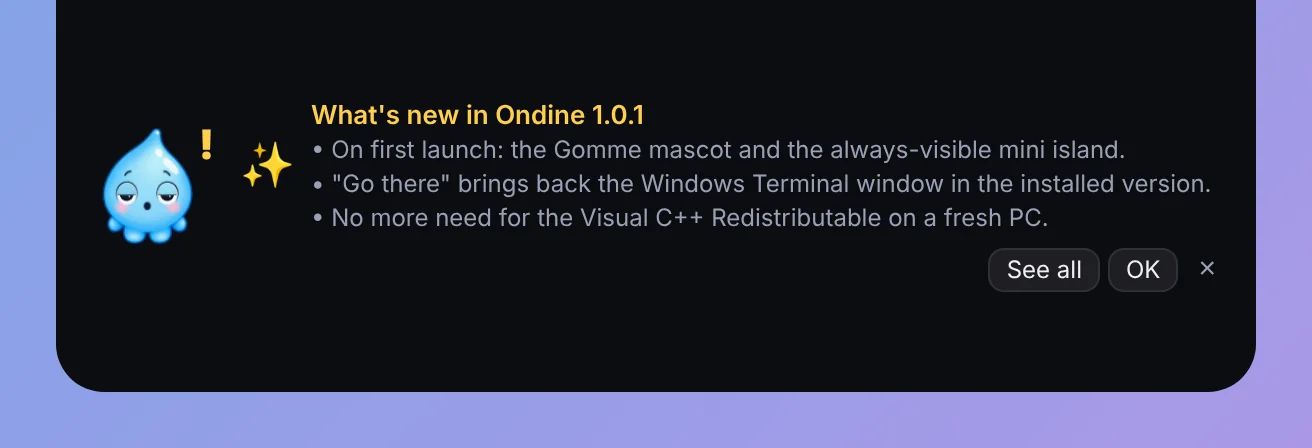
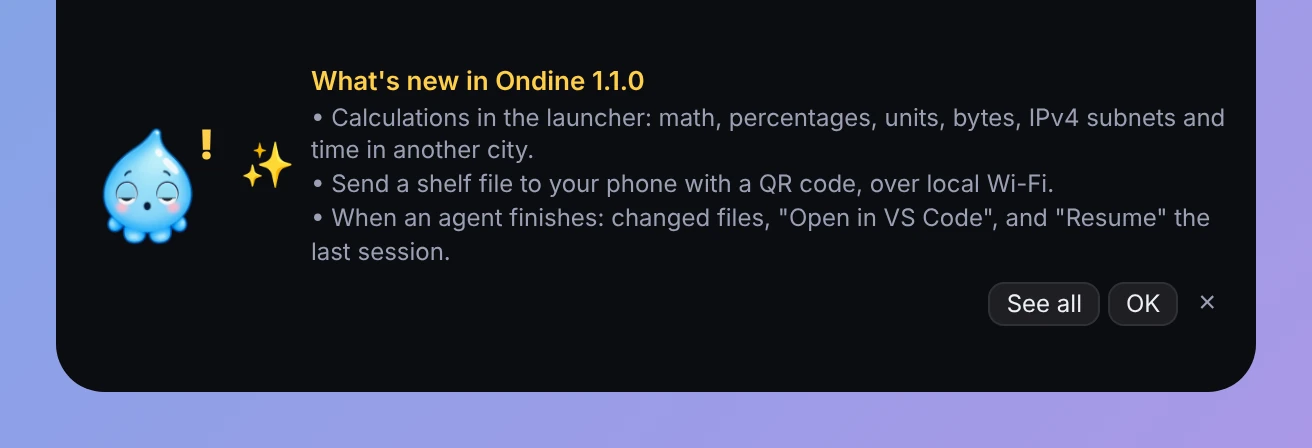
Correctifs après la 1.1.0 : textes anglais, recherche coupée, Quoi de neuf
- i18n.ts : le parcours d'un morceau de page saute vraiment ce qui vient de
  l'utilisateur (data-no-i18n, textarea, contenteditable) ; le placeholder
  d'une zone de texte est traduit.
- Agenda, règles, aide des agents : les lignes faites de plusieurs morceaux
  sont rendues morceau par morceau, chacun traduit à part ; les jours
  suivent la langue de l'île.
- i18n-en.json : batterie, mémoire, île réduite de l'Agenda, état des
  permissions, actions des règles ; remplacements corrigés ($1 répété).
  Un test refuse désormais un $n répété.
- Presse-papiers : « Chercher… » et des onglets plus serrés, la recherche
  n'est plus coupée. Redémarrage en attente : le texte passe à la ligne.
- Quoi de neuf : espaces insécables du français (guillemets, deux-points).
  Captures du README refaites sur la 1.1.0.

Claude-Session: https://claude.ai/code/session_01PJkXqXzqgYwzQRsmaiu2JG

diff --git a/src/modules/agenda/index.ts b/src/modules/agenda/index.ts
@@ -18,6 +18,7 @@
 
 import manifest from "./manifest.json";
 import { Bridge } from "../../core/bridge";
+import { currentLang } from "../../core/i18n";
 import { errorText } from "../../core/log";
 import type { IslandModule, ModuleApi, ModuleManifest } from "../../core/module-types";
 import { el } from "../../island/dom";
@@ -69,13 +70,21 @@ const LINK_LABELS: Record<LinkKind, string> = {
   web: "Ouvrir le lien du rendez-vous",
 };
 
-/** « 2 calendriers · 245 événements lus (le plus récent : 12/03/2026) · 0 à venir » */
-function sourcesLine(calendars: number, read: number | undefined, latest: string | null | undefined, upcoming: number): string {
+/**
+ * « 2 calendriers · 245 événements lus (le plus récent : 12/03/2026) · 0 à venir »,
+ * en morceaux : chacun se traduit à part (voir dotted).
+ */
+function sourcesLine(calendars: number, read: number | undefined, latest: string | null | undefined, upcoming: number): string[] {
   const parts: string[] = [];
   if (calendars) parts.push(calendars > 1 ? `${calendars} calendriers` : "1 calendrier");
   if (read !== undefined) parts.push(`${read} événement${read > 1 ? "s" : ""} lu${read > 1 ? "s" : ""}${latest ? ` (le plus récent : ${latest})` : ""}`);
   parts.push(`${upcoming} à venir`);
-  return parts.join(" · ");
+  return parts;
+}
+
+/** Des morceaux séparés par « · », chacun dans son propre texte (traduit à part, i18n.ts). */
+function dotted(parts: (string | null | undefined)[]): string[] {
+  return parts.filter((p): p is string => !!p).flatMap((p, i) => (i ? [" · ", p] : [p]));
 }
 
 let listing: Listing = { events: [], errors: [], calendars: [] };
@@ -114,12 +123,12 @@ function dayStart(ms: number): number {
   return d.getTime();
 }
 
-/** « Aujourd'hui », « Demain », sinon « mercredi 8 octobre ». */
+/** « Aujourd'hui », « Demain », sinon « mercredi 8 octobre » (« Thursday, October 8 » en anglais). */
 function dayLabel(ms: number): string {
   const days = Math.round((dayStart(ms) - dayStart(Date.now())) / 86_400_000);
   if (days <= 0) return "Aujourd'hui";
   if (days === 1) return "Demain";
-  const text = new Date(ms).toLocaleDateString("fr-FR", { weekday: "long", day: "numeric", month: "long" });
+  const text = new Date(ms).toLocaleDateString(currentLang() === "en" ? "en-US" : "fr-FR", { weekday: "long", day: "numeric", month: "long" });
   return text.charAt(0).toUpperCase() + text.slice(1);
 }
 
@@ -145,7 +154,9 @@ function relative(m: Meeting, now = Date.now()): string {
     const rest = min % 60;
     return rest ? `dans ${h} h ${String(rest).padStart(2, "0")}` : `dans ${h} h`;
   }
-  return m.allDay ? dayLabel(m.start).toLowerCase() : `${dayLabel(m.start).toLowerCase()} à ${hhmm(m.start)}`;
+  // En anglais, les jours gardent leur majuscule (« Thursday, October 8 at 9:30 »).
+  const day = currentLang() === "en" ? dayLabel(m.start) : dayLabel(m.start).toLowerCase();
+  return m.allDay ? day : `${day} à ${hhmm(m.start)}`;
 }
 
 /** Ouvre le lien d'un rendez-vous (le Rust le retrouve et vérifie qu'il est http(s)). */
@@ -388,7 +399,7 @@ export const agenda: IslandModule = {
                 { class: `agenda-next${ongoing(next) ? " live" : ""}` },
                 el("span", { class: "agenda-when" }, relative(next)),
                 el("b", { class: "agenda-title" }, dot(next), next.title),
-                el("span", { class: "muted" }, [dayLabel(next.start), timeRange(next), next.location].filter(Boolean).join(" · ")),
+                el("span", { class: "muted" }, ...dotted([dayLabel(next.start), timeRange(next), next.location])),
                 next.link ? el("span", { class: "agenda-join" }, next.link === "web" ? "🔗 " : "🎥 ", LINK_LABELS[next.link]) : null,
               ),
               api,
@@ -429,7 +440,7 @@ export const agenda: IslandModule = {
           el(
             "div",
             { class: "btn-row agenda-foot" },
-            el("span", { class: "muted" }, sourcesLine(calendars.length, read, latest, events.length)),
+            el("span", { class: "muted" }, ...dotted(sourcesLine(calendars.length, read, latest, events.length))),
             el("button", { class: "btn small", title: "Relire tous les calendriers", onclick: api.handler(() => refresh(api, "reload", { force: true })) }, "🔄 Relire"),
           ),
         );

diff --git a/src/core/i18n.ts b/src/core/i18n.ts
@@ -156,10 +156,26 @@ function applyAttr(elem: Element, name: string) {
   if (shown !== v) elem.setAttribute(name, shown);
 }
 
+/** Ce qui vient de l'utilisateur (champs de saisie, notes, presse-papiers) n'est pas touché. */
+const USER_TEXT = "[data-no-i18n], textarea, [contenteditable='true']";
+
 function skipped(elem: Element): boolean {
-  // Ce qui vient de l'utilisateur (champs de saisie, notes, presse-papiers) n'est pas touché.
-  return elem.closest("[data-no-i18n], textarea, [contenteditable='true']") !== null;
+  return elem.closest(USER_TEXT) !== null;
 }
+
+/**
+ * Le placeholder et la bulle d'une zone de texte sont de l'appli, même si son
+ * contenu est à l'utilisateur.
+ */
+function applyFieldAttrs(elem: Element) {
+  const parent = elem.parentElement;
+  if (elem.tagName === "TEXTAREA" && (!parent || !skipped(parent))) for (const a of ATTRS) applyAttr(elem, a);
+}
+
+/** Le parcours d'un morceau de page saute ce qui vient de l'utilisateur (et tout ce qu'il contient). */
+const userFilter: NodeFilter = {
+  acceptNode: (n) => (n.nodeType === Node.ELEMENT_NODE && (n as Element).matches(USER_TEXT) ? NodeFilter.FILTER_REJECT : NodeFilter.FILTER_ACCEPT),
+};
 
 function translateNode(node: Node) {
   if (node.nodeType === Node.TEXT_NODE) {
@@ -169,15 +185,16 @@ function translateNode(node: Node) {
   }
   if (node.nodeType !== Node.ELEMENT_NODE) return;
   const elem = node as Element;
-  if (skipped(elem)) return;
+  if (skipped(elem)) return applyFieldAttrs(elem);
   for (const a of ATTRS) applyAttr(elem, a);
-  const walker = document.createTreeWalker(elem, NodeFilter.SHOW_TEXT | NodeFilter.SHOW_ELEMENT);
+  const walker = document.createTreeWalker(elem, NodeFilter.SHOW_TEXT | NodeFilter.SHOW_ELEMENT, userFilter);
   let n = walker.nextNode();
   while (n) {
     if (n.nodeType === Node.TEXT_NODE) applyText(n);
     else for (const a of ATTRS) applyAttr(n as Element, a);
     n = walker.nextNode();
   }
+  for (const field of elem.querySelectorAll("textarea")) applyFieldAttrs(field);
 }
 
 let originalTitle = "";
@@ -234,6 +251,7 @@ export async function startI18n(): Promise<void> {
       else if (r.type === "attributes") {
         const e = r.target as Element;
         if (!skipped(e)) applyAttr(e, r.attributeName!);
+        else applyFieldAttrs(e);
       } else r.addedNodes.forEach(translateNode);
     }
   }).observe(document.body, { subtree: true, childList: true, characterData: true, attributes: true, attributeFilter: ATTRS });

diff --git a/tests/front/changelog.test.ts b/tests/front/changelog.test.ts
@@ -5,7 +5,7 @@
 import { describe, test } from "node:test";
 import assert from "node:assert/strict";
 import { readFileSync } from "node:fs";
-import { changelogSection, parseChangelog, shorten, splitBilingual, whatsNewAction, whatsNewLines } from "../../src/core/changelog";
+import { changelogSection, frenchSpaces, parseChangelog, shorten, splitBilingual, whatsNewAction, whatsNewLines } from "../../src/core/changelog";
 
 const SAMPLE = [
   "# Changements · Changelog",
@@ -66,7 +66,7 @@ describe("lecture du CHANGELOG", () => {
   test("chaque puce : la moitié de la langue choisie", () => {
     assert.deepEqual(whatsNewLines(SAMPLE, "1.2.0", "fr"), [
       "Première puce.",
-      "Une puce sur deux lignes, avec « des guillemets » et la suite en retrait.",
+      "Une puce sur deux lignes, avec «\u00a0des guillemets\u00a0» et la suite en retrait.",
       "Bilan de la semaine (Pomodoros · tâches).",
     ]);
     assert.deepEqual(whatsNewLines(SAMPLE, "1.2.0", "en"), ["First bullet.", "A bullet over two lines, continued.", "Weekly summary."]);
@@ -92,6 +92,11 @@ describe("lecture du CHANGELOG", () => {
     const s = shorten("un deux trois quatre cinq six sept", 20);
     assert.ok(s.length <= 20, s);
     assert.equal(s, "un deux trois…");
+  });
+
+  test("en français, les guillemets et les deux-points ne se séparent pas de leur mot", () => {
+    assert.equal(frenchSpaces("« Reprendre » : la session ; vraiment ?"), "«\u00a0Reprendre\u00a0»\u00a0: la session\u00a0; vraiment\u00a0?");
+    assert.equal(frenchSpaces("Déjà insécable :\u00a0rien à changer"), "Déjà insécable\u00a0:\u00a0rien à changer");
   });
 
   test("le vrai CHANGELOG.md : chaque version a des puces, en deux langues", () => {

diff --git a/src/modules/agents/index.ts b/src/modules/agents/index.ts
@@ -590,9 +590,11 @@ export const agents: IslandModule = {
           el("li", {}, "Ouvrez ", el("code", {}, fileOf(tool)), ". ", TOOLS[tool].steps),
           el("li", {}, "Chaque hook lance : ", exe),
         );
-        mcpSteps.textContent =
-          "En plus (facultatif) : branchez l'île comme serveur MCP. L'agent pourra alors vous envoyer un message, sa progression, lancer le minuteur, ou vous poser une question à choix, à laquelle vous répondez d'un clic. " +
-          MCP_STEPS[tool];
+        // Deux textes : chacun a sa traduction (i18n.ts traduit texte par texte).
+        mcpSteps.replaceChildren(
+          "En plus (facultatif) : branchez l'île comme serveur MCP. L'agent pourra alors vous envoyer un message, sa progression, lancer le minuteur, ou vous poser une question à choix, à laquelle vous répondez d'un clic. ",
+          MCP_STEPS[tool],
+        );
         const permOn = api.settings().permissions === true;
         permText.textContent =
           tool === "gemini"

diff --git a/src/modules/rules/index.ts b/src/modules/rules/index.ts
@@ -14,7 +14,7 @@ import { errorText } from "../../core/log";
 import type { IslandModule, ModuleApi, ModuleManifest } from "../../core/module-types";
 import { el } from "../../island/dom";
 import { reducedMotion } from "../../island/tab-pill";
-import { summary, type Listing } from "./shared";
+import { summaryParts, type Listing } from "./shared";
 
 let listing: Listing = { rules: [], paused: false, history: [], errors: {}, topics: [] };
 const redraws = new Set<() => void>();
@@ -109,7 +109,7 @@ export const rules: IslandModule = {
                 "button",
                 { class: "rule-main", title: "Modifier", onclick: api.handler(() => edit(api, r.id)) },
                 el("b", {}, r.name),
-                el("span", { class: "muted" }, summary(r, topics)),
+                el("span", { class: "muted" }, ...summaryParts(r, topics)),
                 error ? el("span", { class: "rule-error" }, `⚠ ${error}`) : null,
               ),
             ),

diff --git a/src/modules/rules/shared.ts b/src/modules/rules/shared.ts
@@ -132,9 +132,13 @@ export function actionText(a: Action): string {
   }
 }
 
-/** « Quand un fichier arrive dans Downloads (.pdf) → déplacer dans PDF, notifier… » */
-export function summary(r: Rule, topics: Listing["topics"] = []): string {
-  return `${triggerText(r.trigger, topics)}${conditionsText(r.conditions, r.trigger)} → ${r.actions.map(actionText).join(", ")}`;
+/**
+ * Le résumé d'une règle, « Quand un fichier arrive dans Downloads (.pdf) →
+ * déplacer dans PDF, notifier… », en morceaux : chacun se traduit à part (i18n.ts).
+ */
+export function summaryParts(r: Rule, topics: Listing["topics"] = []): string[] {
+  const actions = r.actions.map(actionText).flatMap((a, i) => (i ? [", ", a] : [a]));
+  return [triggerText(r.trigger, topics), conditionsText(r.conditions, r.trigger), " → ", ...actions].filter(Boolean);
 }
 
 /** Des règles prêtes à adapter. Un dossier vide = à choisir avant d'enregistrer. */

diff --git a/src/core/changelog.ts b/src/core/changelog.ts
@@ -104,8 +104,16 @@ export function whatsNewLines(text: string, version: string, lang: string, max =
   if (!section) return null;
   return section.items.slice(0, max).map((item) => {
     const halves = splitBilingual(item);
-    return shorten(lang === "fr" ? halves.fr : halves.en, maxChars);
+    return lang === "fr" ? frenchSpaces(shorten(halves.fr, maxChars)) : shorten(halves.en, maxChars);
   });
+}
+
+/**
+ * Les espaces insécables du français : « Reprendre » ne se coupe pas en fin de
+ * ligne entre le guillemet et le mot, ni « fini : » avant les deux-points.
+ */
+export function frenchSpaces(line: string): string {
+  return line.replace(/« /g, "«\u00a0").replace(/ ([»:;?!])/g, "\u00a0$1");
 }
 
 /**

diff --git a/src/styles/island.css b/src/styles/island.css
@@ -769,8 +769,12 @@ body {
 .clip-head {
   display: flex;
   align-items: center;
-  gap: 8px;
+  gap: 6px;
   margin-bottom: 6px;
+}
+/* Des onglets un peu plus serrés : la recherche garde la place de « Chercher… ». */
+.clip-tabs .tab {
+  padding-inline: 6px;
 }
 .clip-search,
 .clip-input {
@@ -1964,12 +1968,11 @@ body {
 .sys-reboot[hidden] {
   display: none;
 }
+/* Le texte passe à la ligne plutôt que d'être coupé (« (mises à jour … »). */
 .sys-reboot-text {
   flex: 1;
   min-width: 0;
-  overflow: hidden;
-  text-overflow: ellipsis;
-  white-space: nowrap;
+  line-height: 1.3;
 }
 .sys-reboot .btn {
   flex: none;

diff --git a/src/core/demo.ts b/src/core/demo.ts
@@ -505,7 +505,7 @@ export async function demoInvoke(bus: Bus, module: string, command: string, raw:
           { id: 2, name: "Clé USB branchée", enabled: true, trigger: { type: "drive" }, conditions: RULE_EMPTY, actions: [{ type: "reveal" }] },
         ],
         paused: false,
-        history: [{ at: Date.now() - 12 * MIN, rule: "Ranger les PDF", subject: "Facture-octobre.pdf", ok: true, message: "Déplacé dans PDF" }],
+        history: [{ at: Date.now() - 12 * MIN, rule: "Ranger les PDF", subject: "Facture-octobre.pdf", ok: true, message: "déplacé dans PDF" }],
         errors: {},
         topics: [],
       };

diff --git a/tests/front/i18n.test.ts b/tests/front/i18n.test.ts
@@ -83,6 +83,11 @@ describe("i18n-en.json bien formé", () => {
       for (const m of rep.matchAll(/\$(\d+)/g)) {
         if (Number(m[1]) > groups) bad.push(`${rx} : « $${m[1]} » mais seulement ${groups} groupe(s)`);
       }
+      // « Disk $1: $1 GB free of $1 GB » : chaque morceau repris une seule fois.
+      const used = [...rep.matchAll(/\$(\d+)/g)].map((m) => m[1]);
+      for (const n of new Set(used)) {
+        if (used.filter((x) => x === n).length > 1) bad.push(`${rx} : « $${n} » plusieurs fois dans ${JSON.stringify(rep)}`);
+      }
     }
     assert.deepEqual(bad, []);
   });

diff --git a/src/settings/rules-editor.ts b/src/settings/rules-editor.ts
@@ -18,7 +18,7 @@ import {
   allowedActions,
   EMPTY_CONDITIONS,
   prettyKeys,
-  summary,
+  summaryParts,
   TEMPLATES,
   type Action,
   type Listing,
@@ -198,7 +198,7 @@ function list(main: HTMLElement) {
             "Supprimer",
           ),
         ),
-        el("p", { class: "muted rule-summary" }, summary(r, listing.topics)),
+        el("p", { class: "muted rule-summary" }, ...summaryParts(r, listing.topics)),
         error ? el("div", { class: "note error" }, error) : null,
       ),
     );

diff --git a/src/modules/clipboard/index.ts b/src/modules/clipboard/index.ts
@@ -168,7 +168,7 @@ export const clipboard: IslandModule = {
       const search = el("input", {
         class: "clip-search",
         type: "search",
-        placeholder: "Rechercher…",
+        placeholder: "Chercher…",
         value: view.query,
         spellcheck: "false",
       });
